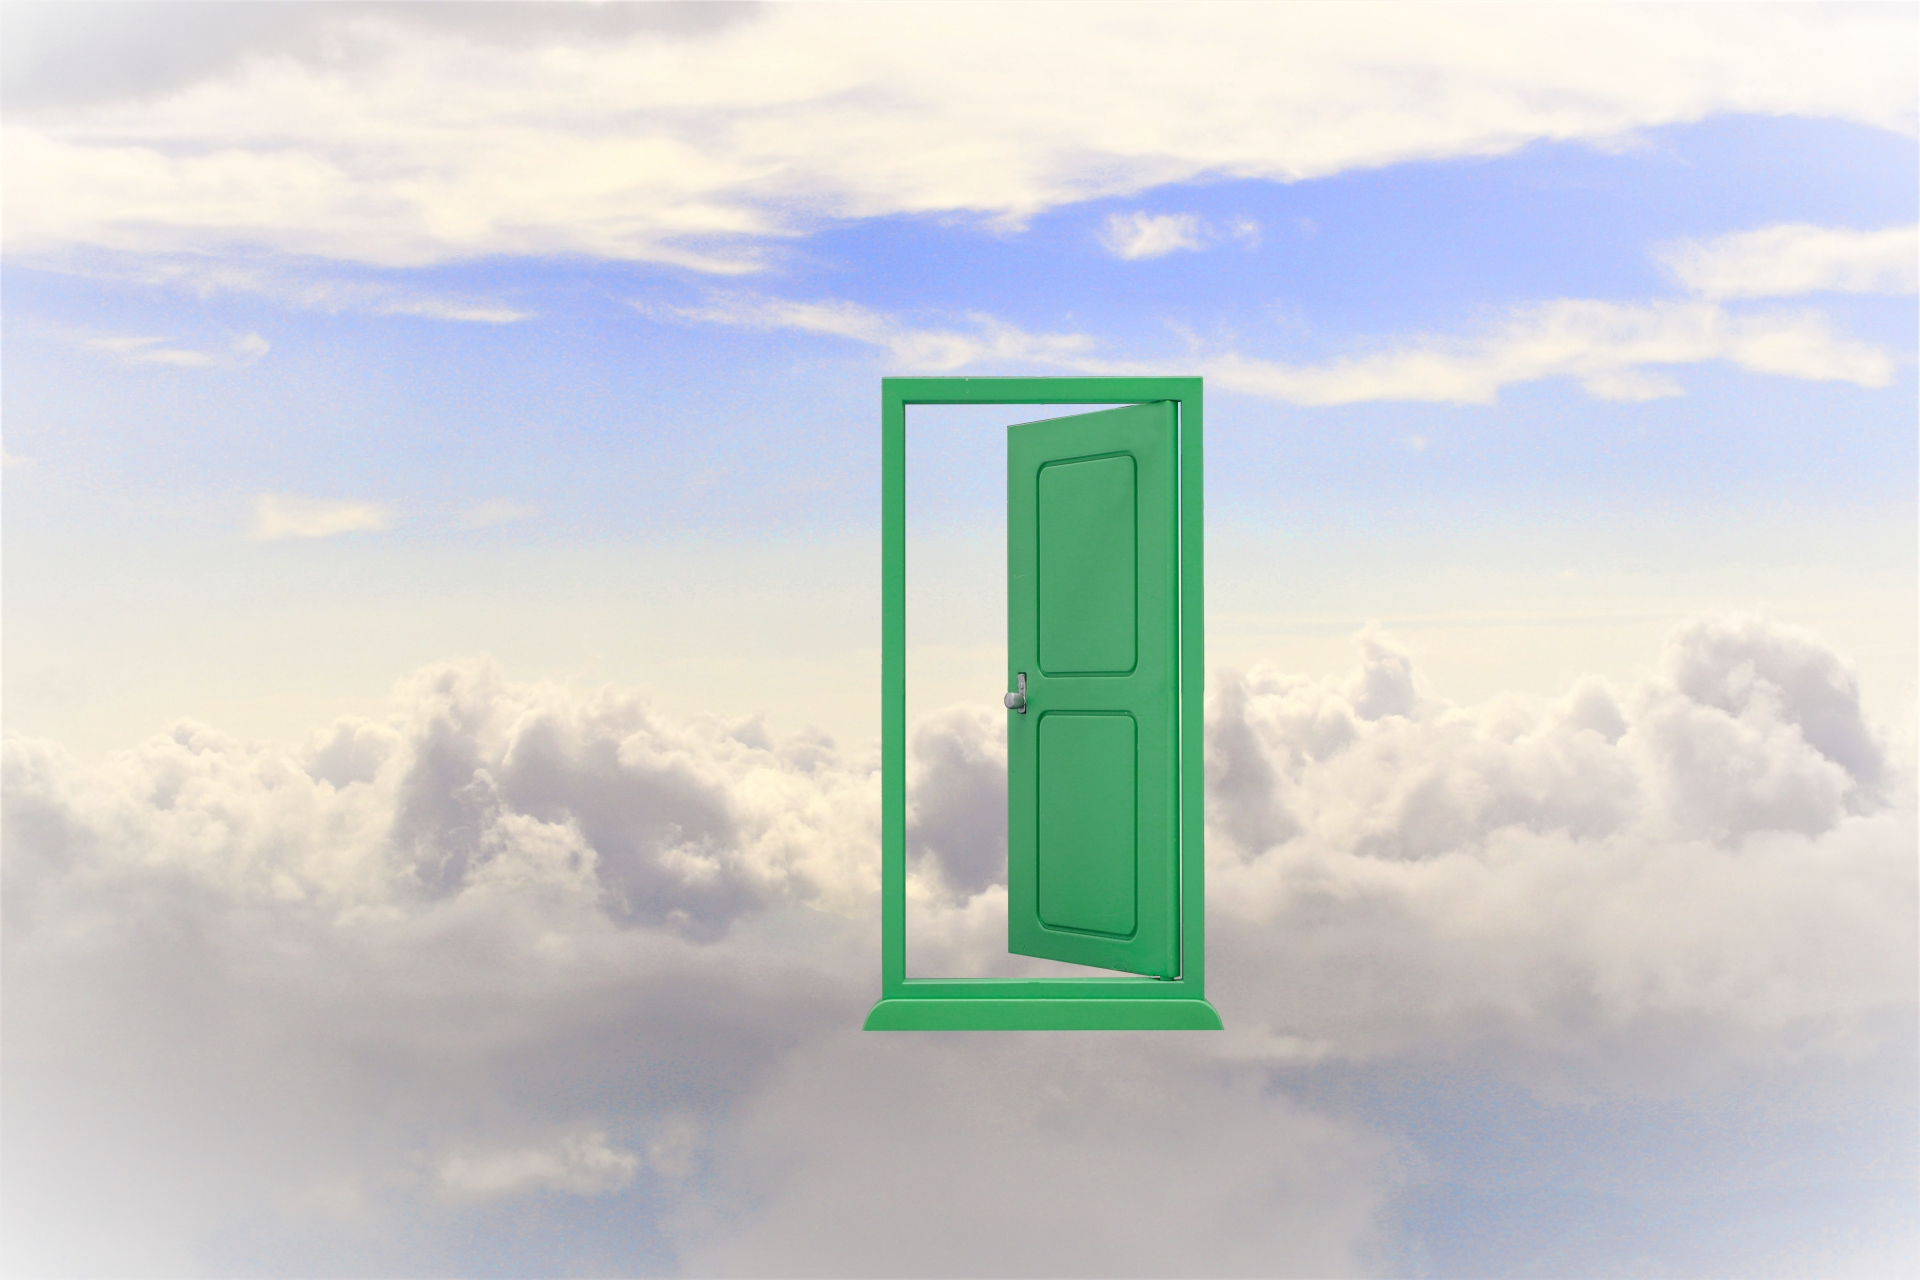
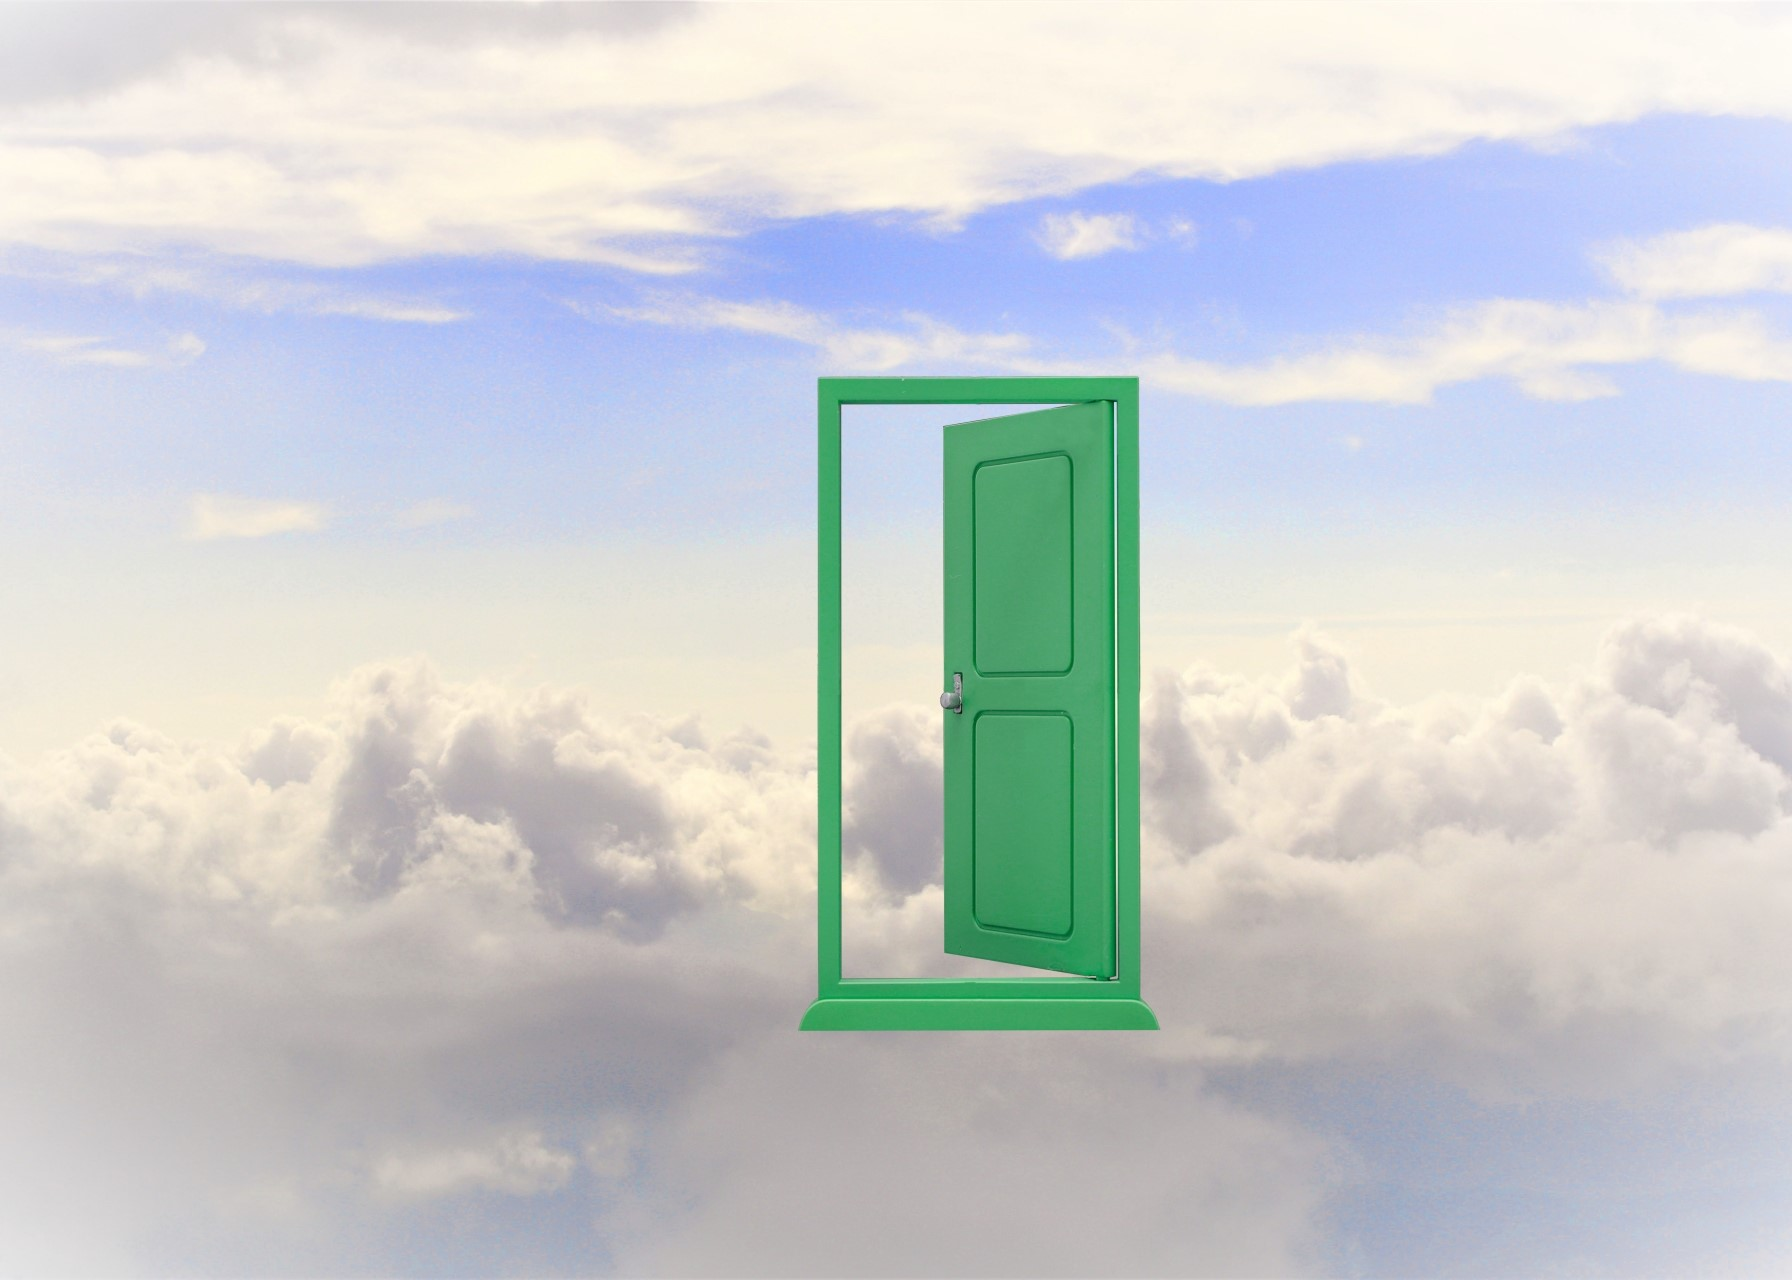
ログイン、新規登録、日記のサイト作成

diff --git a/Group/css/login_register.css b/Group/css/login_register.css
@@ -1,0 +1,41 @@
+@charset 'utf-8';
+
+*,
+::after,
+::before {
+    margin: 0;
+    padding: 0;
+}
+
+body {
+    /* background-image: url(../img/login_register.png);
+    background-size: 100%;
+    background-repeat: no-repeat;
+    object-fit: cover; */
+    width: 100vw;
+    height: 100vh;
+    overflow: hidden;
+}
+
+/* #buttons{
+   width: 100%;
+   height: 100%;
+} */
+
+img{
+    width: 100%;
+    height: 100%;
+}
+
+#register {
+     position: absolute;
+    right: 16%;
+    top: 35%;
+}
+
+#login{
+     position: absolute;
+    left: 16%;
+    top: 35%;
+}
+

diff --git a/Group/css/diary.css b/Group/css/diary.css
@@ -1,0 +1,39 @@
+@charset 'utf-8';
+
+*,
+::after,
+::before {
+  margin: 0;
+  padding: 0;
+}
+
+.main {
+  display: flex;
+  justify-content: center;
+}
+
+textarea {
+  top: 10px;
+  width: 600px;
+  height: 600px;
+  resize: none;
+
+}
+
+input[type="submit"] {
+  background-color: #2f4f4f;
+  color: #fff;
+  padding: 10px 30px;
+  text-decoration: none;
+  font-size: 1em;
+}
+
+input[type="submit"]:hover {
+  color: #fff;
+  opacity: 0.8;
+}
+
+input[type="text"] {
+  width: 600px;
+  height: 60px;
+}

diff --git a/Group/js/login.js b/Group/js/login.js
@@ -40,3 +40,13 @@ fancyBoxes.forEach((box) => {
     box.style.backgroundColor = randomColor;
   });
 });
+
+//register music
+function play(){
+// audio
+
+}
+
+
+const heaven 
+heaven.addEventListener('click', play());

diff --git a/Group/css/register.css b/Group/css/register.css
@@ -8,7 +8,7 @@
 }
 
 body {
-    background-image: url(../img/open_door.jpg);
+    background-image: url(../img/close_door.jpg);
     background-size: 100%;
     background-repeat: no-repeat;
     object-fit: cover;

diff --git a/Group/register.php b/Group/register.php
@@ -3,24 +3,24 @@
 <head>
     <meta charset="UTF-8">
     <meta name="viewport" content="width=device-width, initial-scale=1.0">
-    <link rel="stylesheet" href="./css/login.css">
+    <link rel="stylesheet" href="./css/register.css">
 <link rel="preconnect" href="https://fonts.googleapis.com">
 <link rel="preconnect" href="https://fonts.gstatic.com" crossorigin>
 <link href="https://fonts.googleapis.com/css2?family=Rampart+One&display=swap" rel="stylesheet">
-    <title>ログインページ</title>
+    <title>新規登録</title>
 </head>
 
 <body>
     <div class="login">
-        <h1>ユーザーIDとパスワードを入力してください</h1>
-        <p>新規登録は<a href="register.php">こちら</a>へ</p>
+        <h1>ユーザーIDとパスワードを設定してください</h1>
+        <p>ログインは<a href="login.php">こちら</a>へ</p>
         <div class="form">
             <form action="" method="POST">
                 <div class="input">
                     <span>ユーザーID：<input type="text" name="username"></span><br>
                     <span>パスワード：<input type="text" name="password"></span><br>
                 </div>
-                <div class="submit"><input type="submit" value="ログイン" ></div>
+                <div class="submit"><input type="submit" value="登録" ></div>
             </form>
         </div>
     </div>

diff --git a/Group/diary1.php b/Group/diary1.php
@@ -1,0 +1,24 @@
+<!DOCTYPE html>
+<html lang="en">
+
+<head>
+    <meta charset="UTF-8">
+    <meta name="viewport" content="width=device-width, initial-scale=1.0">
+    <link rel="stylesheet" href="./css/diary.css">
+    <title>Document</title>
+</head>
+
+<body>
+    <header>
+        <h1>DIARY</h1>
+    </header>
+    <div class="main">
+        <div class="sub">
+            題名：<input type="text"><br>
+            内容：<textarea name="diary" id="diary"></textarea>
+            <input type="submit" value="投稿ページ">
+        </div>
+    </div>
+</body>
+
+</html>

diff --git a/Group/login_register.php b/Group/login_register.php
@@ -1,0 +1,17 @@
+<!DOCTYPE html>
+<html lang="en">
+<head>
+    <meta charset="UTF-8">
+    <meta name="viewport" content="width=device-width, initial-scale=1.0">
+    <title>FLUFFYPLANETS</title>
+    <link rel="stylesheet" href="./css/login_register.css">
+</head>
+<body>
+<img src="./img/login_register.png" alt="">
+    <div id="buttons">
+        <input id="login" type="submit" value="ログイン" >
+        <input id="register" type="submit" value="新規登録">
+    </div>
+
+    </body>
+</html>

diff --git a/Group/diary.php b/Group/diary.php
@@ -1,0 +1,16 @@
+<!DOCTYPE html>
+<html lang="en">
+<head>
+    <meta charset="UTF-8">
+    <meta name="viewport" content="width=device-width, initial-scale=1.0">
+    <title>Document</title>
+</head>
+<body>
+    <table>
+        <tr>
+            <th>日付</th>
+            <th>題名</th>
+        </tr>
+    </table>
+</body>
+</html>
